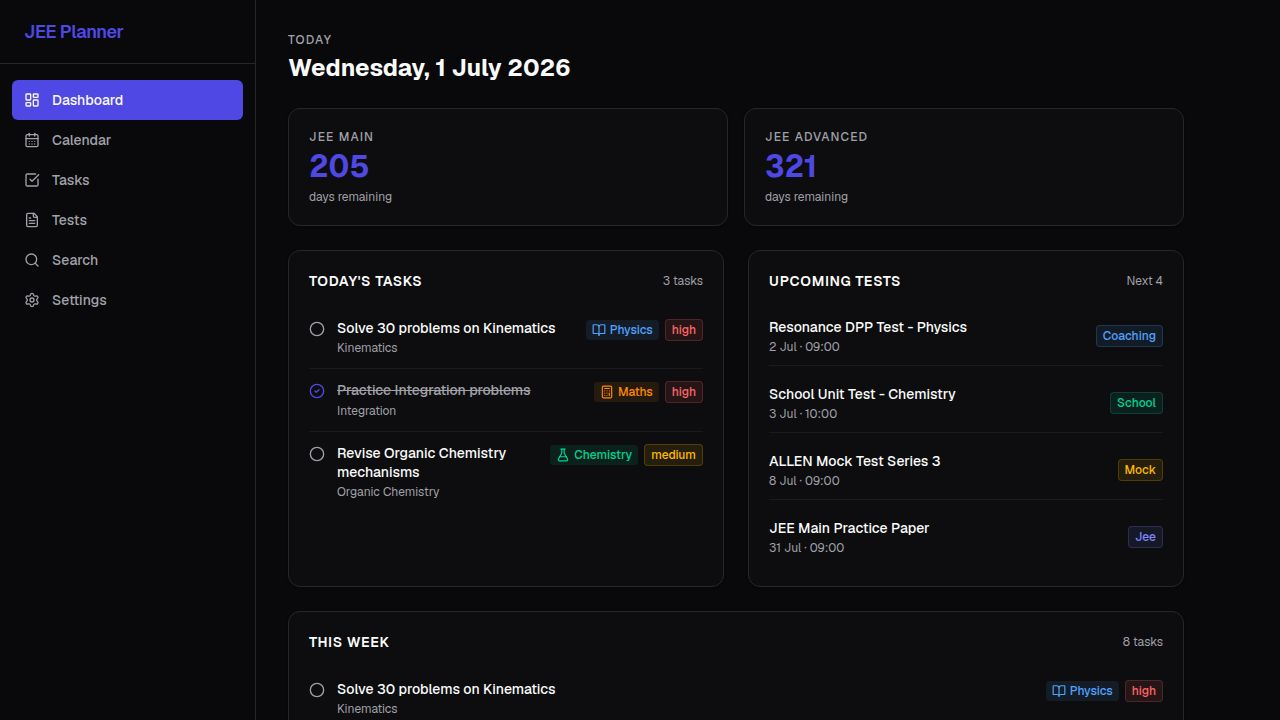
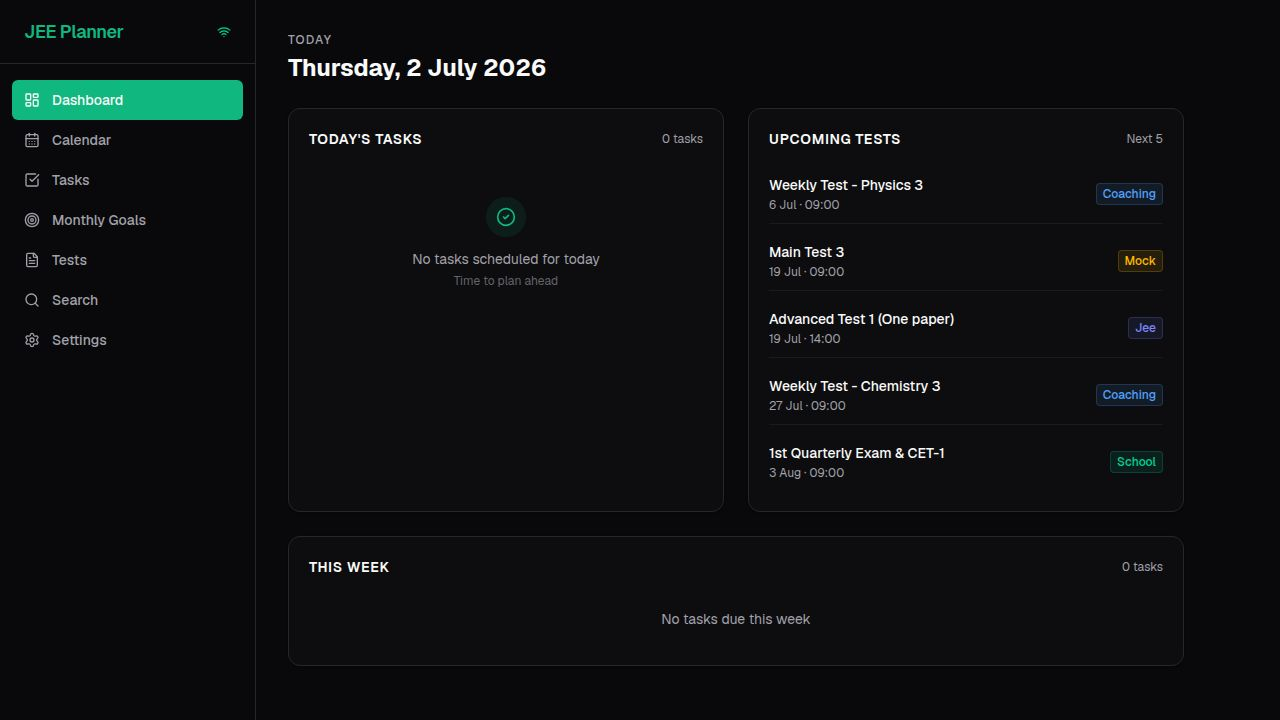
Add monthly goals feature with task tracking and progress visualization
Implement the "Monthly Goals" page, including navigation, goal creation/editing/deletion, and progress tracking. Update App.tsx and layout.tsx to integrate the new page into the application's routing and sidebar navigation.

Replit-Commit-Author: Agent
Replit-Commit-Session-Id: 8c80e2f8-d337-4d79-a131-af2cf229e117
Replit-Commit-Checkpoint-Type: full_checkpoint
Replit-Commit-Event-Id: 26960121-60f6-4b95-b059-2a54d8d9f779
Replit-Commit-Screenshot-Url: https://storage.googleapis.com/screenshot-production-us-central1/cb10af1d-fc4f-48c2-afae-b92a2a6c6787/8c80e2f8-d337-4d79-a131-af2cf229e117/giYGNqI
Replit-Helium-Checkpoint-Created: true

diff --git a/artifacts/jee-planner/src/pages/monthly-goals.tsx b/artifacts/jee-planner/src/pages/monthly-goals.tsx
@@ -1,0 +1,330 @@
+import { useState } from "react";
+import { format, addMonths, subMonths } from "date-fns";
+import {
+  useListMonthlyGoals,
+  getListMonthlyGoalsQueryKey,
+  useCreateMonthlyGoal,
+  useUpdateMonthlyGoal,
+  useDeleteMonthlyGoal,
+  useToggleMonthlyGoal,
+} from "@workspace/api-client-react";
+import { useQueryClient } from "@tanstack/react-query";
+import {
+  ChevronLeft,
+  ChevronRight,
+  Plus,
+  CheckCircle2,
+  Circle,
+  Trash2,
+  Pencil,
+  X,
+  Check,
+  BookOpen,
+  FlaskConical,
+  Calculator,
+  Beaker,
+  Target,
+} from "lucide-react";
+import { Card } from "@/components/ui/card";
+import { Skeleton } from "@/components/ui/skeleton";
+import { useToast } from "@/hooks/use-toast";
+
+const SUBJECTS = ["Physics", "Chemistry", "Maths", "Custom"];
+const PRIORITIES = ["low", "medium", "high"] as const;
+
+const subjectIcon: Record<string, React.ReactNode> = {
+  Physics: <BookOpen className="h-3.5 w-3.5" />,
+  Chemistry: <FlaskConical className="h-3.5 w-3.5" />,
+  Maths: <Calculator className="h-3.5 w-3.5" />,
+  Custom: <Beaker className="h-3.5 w-3.5" />,
+};
+
+const subjectColor: Record<string, string> = {
+  Physics: "text-blue-400 bg-blue-400/10",
+  Chemistry: "text-emerald-400 bg-emerald-400/10",
+  Maths: "text-orange-400 bg-orange-400/10",
+  Custom: "text-purple-400 bg-purple-400/10",
+};
+
+const priorityColor: Record<string, string> = {
+  high: "text-red-400 bg-red-400/10 border-red-400/20",
+  medium: "text-amber-400 bg-amber-400/10 border-amber-400/20",
+  low: "text-gray-400 bg-gray-400/10 border-gray-400/20",
+};
+
+type GoalFormState = {
+  title: string;
+  subject: string;
+  priority: "low" | "medium" | "high";
+  notes: string;
+};
+
+const emptyForm = (): GoalFormState => ({
+  title: "",
+  subject: "Custom",
+  priority: "medium",
+  notes: "",
+});
+
+export default function MonthlyGoals() {
+  const [current, setCurrent] = useState(new Date());
+  const [showForm, setShowForm] = useState(false);
+  const [editingId, setEditingId] = useState<number | null>(null);
+  const [form, setForm] = useState<GoalFormState>(emptyForm());
+  const { toast } = useToast();
+  const qc = useQueryClient();
+
+  const month = current.getMonth() + 1;
+  const year = current.getFullYear();
+  const queryKey = getListMonthlyGoalsQueryKey({ month, year });
+
+  const { data: goals = [], isLoading } = useListMonthlyGoals(
+    { month, year },
+    { query: { queryKey } }
+  );
+
+  const invalidate = () => qc.invalidateQueries({ queryKey });
+
+  const createGoal = useCreateMonthlyGoal({ mutation: { onSuccess: () => { invalidate(); setShowForm(false); setForm(emptyForm()); } } });
+  const updateGoal = useUpdateMonthlyGoal({ mutation: { onSuccess: () => { invalidate(); setEditingId(null); } } });
+  const deleteGoal = useDeleteMonthlyGoal({ mutation: { onSuccess: invalidate } });
+  const toggleGoal = useToggleMonthlyGoal({ mutation: { onSuccess: invalidate } });
+
+  function handleSubmitNew(e: React.FormEvent) {
+    e.preventDefault();
+    if (!form.title.trim()) return;
+    createGoal.mutate({
+      data: { title: form.title.trim(), subject: form.subject, priority: form.priority, notes: form.notes || undefined, month, year },
+    });
+  }
+
+  function handleSubmitEdit(e: React.FormEvent, id: number) {
+    e.preventDefault();
+    if (!form.title.trim()) return;
+    updateGoal.mutate({
+      id,
+      data: { title: form.title.trim(), subject: form.subject, priority: form.priority, notes: form.notes || undefined },
+    });
+  }
+
+  function startEdit(goal: (typeof goals)[0]) {
+    setEditingId(goal.id);
+    setForm({ title: goal.title, subject: goal.subject, priority: goal.priority as "low" | "medium" | "high", notes: goal.notes ?? "" });
+  }
+
+  function handleDelete(id: number) {
+    deleteGoal.mutate({ id }, {
+      onSuccess: () => toast({ title: "Goal deleted" }),
+    });
+  }
+
+  const completed = goals.filter((g) => g.completed).length;
+  const total = goals.length;
+  const pct = total > 0 ? Math.round((completed / total) * 100) : 0;
+
+  return (
+    <div className="space-y-6 max-w-2xl">
+      {/* Header */}
+      <div className="flex items-center justify-between">
+        <div>
+          <p className="text-xs text-muted-foreground uppercase tracking-widest font-medium mb-1">Monthly Goals</p>
+          <h1 className="text-2xl font-bold text-foreground">{format(current, "MMMM yyyy")}</h1>
+        </div>
+        <div className="flex items-center gap-2">
+          <button
+            onClick={() => setCurrent(subMonths(current, 1))}
+            className="p-2 rounded-md hover:bg-muted transition-colors text-muted-foreground hover:text-foreground"
+          >
+            <ChevronLeft className="h-4 w-4" />
+          </button>
+          <button
+            onClick={() => setCurrent(new Date())}
+            className="px-3 py-1.5 text-xs rounded-md bg-muted text-muted-foreground hover:text-foreground transition-colors font-medium"
+          >
+            This Month
+          </button>
+          <button
+            onClick={() => setCurrent(addMonths(current, 1))}
+            className="p-2 rounded-md hover:bg-muted transition-colors text-muted-foreground hover:text-foreground"
+          >
+            <ChevronRight className="h-4 w-4" />
+          </button>
+        </div>
+      </div>
+
+      {/* Progress bar */}
+      {total > 0 && (
+        <div className="flex items-center gap-3">
+          <div className="flex-1 h-2 bg-muted rounded-full overflow-hidden">
+            <div
+              className="h-full bg-primary rounded-full transition-all duration-500"
+              style={{ width: `${pct}%` }}
+            />
+          </div>
+          <span className="text-xs text-muted-foreground font-medium whitespace-nowrap">{completed}/{total} done</span>
+        </div>
+      )}
+
+      {/* Add Goal Form */}
+      {showForm ? (
+        <Card className="bg-card border-border p-5">
+          <form onSubmit={handleSubmitNew} className="space-y-4">
+            <div className="flex items-center justify-between mb-1">
+              <p className="text-sm font-semibold text-foreground">New Goal for {format(current, "MMMM")}</p>
+              <button type="button" onClick={() => { setShowForm(false); setForm(emptyForm()); }} className="text-muted-foreground hover:text-foreground">
+                <X className="h-4 w-4" />
+              </button>
+            </div>
+            <input
+              autoFocus
+              className="w-full bg-muted border border-border rounded-md px-3 py-2 text-sm text-foreground placeholder:text-muted-foreground focus:outline-none focus:ring-1 focus:ring-primary"
+              placeholder="Goal title…"
+              value={form.title}
+              onChange={(e) => setForm((f) => ({ ...f, title: e.target.value }))}
+            />
+            <div className="grid grid-cols-2 gap-3">
+              <div>
+                <label className="text-xs text-muted-foreground mb-1 block">Subject</label>
+                <select
+                  className="w-full bg-muted border border-border rounded-md px-3 py-2 text-sm text-foreground focus:outline-none focus:ring-1 focus:ring-primary"
+                  value={form.subject}
+                  onChange={(e) => setForm((f) => ({ ...f, subject: e.target.value }))}
+                >
+                  {SUBJECTS.map((s) => <option key={s}>{s}</option>)}
+                </select>
+              </div>
+              <div>
+                <label className="text-xs text-muted-foreground mb-1 block">Priority</label>
+                <select
+                  className="w-full bg-muted border border-border rounded-md px-3 py-2 text-sm text-foreground focus:outline-none focus:ring-1 focus:ring-primary"
+                  value={form.priority}
+                  onChange={(e) => setForm((f) => ({ ...f, priority: e.target.value as "low" | "medium" | "high" }))}
+                >
+                  {PRIORITIES.map((p) => <option key={p} value={p}>{p.charAt(0).toUpperCase() + p.slice(1)}</option>)}
+                </select>
+              </div>
+            </div>
+            <textarea
+              className="w-full bg-muted border border-border rounded-md px-3 py-2 text-sm text-foreground placeholder:text-muted-foreground focus:outline-none focus:ring-1 focus:ring-primary resize-none"
+              placeholder="Notes (optional)…"
+              rows={2}
+              value={form.notes}
+              onChange={(e) => setForm((f) => ({ ...f, notes: e.target.value }))}
+            />
+            <div className="flex gap-2 justify-end">
+              <button type="button" onClick={() => { setShowForm(false); setForm(emptyForm()); }} className="px-4 py-2 text-sm rounded-md border border-border text-muted-foreground hover:text-foreground transition-colors">
+                Cancel
+              </button>
+              <button type="submit" disabled={!form.title.trim()} className="px-4 py-2 text-sm rounded-md bg-primary text-primary-foreground font-medium hover:opacity-90 disabled:opacity-50 transition-opacity">
+                Add Goal
+              </button>
+            </div>
+          </form>
+        </Card>
+      ) : (
+        <button
+          onClick={() => setShowForm(true)}
+          className="flex items-center gap-2 px-4 py-2.5 text-sm font-medium rounded-md border border-dashed border-primary/40 text-primary hover:bg-primary/5 transition-colors w-full justify-center"
+        >
+          <Plus className="h-4 w-4" />
+          Add goal for {format(current, "MMMM")}
+        </button>
+      )}
+
+      {/* Goals List */}
+      <Card className="bg-card border-border overflow-hidden">
+        {isLoading ? (
+          <div className="p-5 space-y-3">
+            {[1, 2, 3].map((i) => <Skeleton key={i} className="h-12" />)}
+          </div>
+        ) : goals.length === 0 ? (
+          <div className="py-16 text-center">
+            <div className="w-12 h-12 rounded-full bg-primary/10 flex items-center justify-center mx-auto mb-3">
+              <Target className="h-6 w-6 text-primary" />
+            </div>
+            <p className="text-sm text-muted-foreground">No goals for {format(current, "MMMM yyyy")}</p>
+            <p className="text-xs text-muted-foreground/60 mt-1">Add goals you want to finish this month</p>
+          </div>
+        ) : (
+          <div className="divide-y divide-border/50">
+            {goals.map((goal) =>
+              editingId === goal.id ? (
+                <form key={goal.id} onSubmit={(e) => handleSubmitEdit(e, goal.id)} className="p-4 space-y-3 bg-muted/30">
+                  <input
+                    autoFocus
+                    className="w-full bg-muted border border-border rounded-md px-3 py-2 text-sm text-foreground focus:outline-none focus:ring-1 focus:ring-primary"
+                    value={form.title}
+                    onChange={(e) => setForm((f) => ({ ...f, title: e.target.value }))}
+                  />
+                  <div className="grid grid-cols-2 gap-3">
+                    <select
+                      className="w-full bg-muted border border-border rounded-md px-3 py-2 text-sm text-foreground focus:outline-none"
+                      value={form.subject}
+                      onChange={(e) => setForm((f) => ({ ...f, subject: e.target.value }))}
+                    >
+                      {SUBJECTS.map((s) => <option key={s}>{s}</option>)}
+                    </select>
+                    <select
+                      className="w-full bg-muted border border-border rounded-md px-3 py-2 text-sm text-foreground focus:outline-none"
+                      value={form.priority}
+                      onChange={(e) => setForm((f) => ({ ...f, priority: e.target.value as "low" | "medium" | "high" }))}
+                    >
+                      {PRIORITIES.map((p) => <option key={p} value={p}>{p.charAt(0).toUpperCase() + p.slice(1)}</option>)}
+                    </select>
+                  </div>
+                  <textarea
+                    className="w-full bg-muted border border-border rounded-md px-3 py-2 text-sm text-foreground placeholder:text-muted-foreground focus:outline-none resize-none"
+                    placeholder="Notes…"
+                    rows={2}
+                    value={form.notes}
+                    onChange={(e) => setForm((f) => ({ ...f, notes: e.target.value }))}
+                  />
+                  <div className="flex gap-2 justify-end">
+                    <button type="button" onClick={() => setEditingId(null)} className="p-1.5 rounded-md hover:bg-muted text-muted-foreground"><X className="h-4 w-4" /></button>
+                    <button type="submit" className="p-1.5 rounded-md hover:bg-primary/10 text-primary"><Check className="h-4 w-4" /></button>
+                  </div>
+                </form>
+              ) : (
+                <div key={goal.id} className="flex items-start gap-3 p-4 group hover:bg-muted/20 transition-colors">
+                  <button
+                    onClick={() => toggleGoal.mutate({ id: goal.id })}
+                    className="mt-0.5 flex-shrink-0 text-muted-foreground hover:text-primary transition-colors"
+                  >
+                    {goal.completed
+                      ? <CheckCircle2 className="h-5 w-5 text-primary" />
+                      : <Circle className="h-5 w-5" />}
+                  </button>
+                  <div className="flex-1 min-w-0">
+                    <p className={`text-sm font-medium leading-snug ${goal.completed ? "line-through text-muted-foreground" : "text-foreground"}`}>
+                      {goal.title}
+                    </p>
+                    {goal.notes && (
+                      <p className="text-xs text-muted-foreground mt-0.5 truncate">{goal.notes}</p>
+                    )}
+                  </div>
+                  <div className="flex items-center gap-1.5 flex-shrink-0">
+                    <span className={`inline-flex items-center gap-1 text-xs px-1.5 py-0.5 rounded-sm font-medium ${subjectColor[goal.subject] ?? subjectColor.Custom}`}>
+                      {subjectIcon[goal.subject] ?? subjectIcon.Custom}
+                      {goal.subject}
+                    </span>
+                    <span className={`text-xs px-1.5 py-0.5 rounded-sm border font-medium ${priorityColor[goal.priority]}`}>
+                      {goal.priority}
+                    </span>
+                    <div className="hidden group-hover:flex items-center gap-1 ml-1">
+                      <button onClick={() => startEdit(goal)} className="p-1 rounded hover:bg-muted text-muted-foreground hover:text-foreground transition-colors">
+                        <Pencil className="h-3.5 w-3.5" />
+                      </button>
+                      <button onClick={() => handleDelete(goal.id)} className="p-1 rounded hover:bg-red-500/10 text-muted-foreground hover:text-red-400 transition-colors">
+                        <Trash2 className="h-3.5 w-3.5" />
+                      </button>
+                    </div>
+                  </div>
+                </div>
+              )
+            )}
+          </div>
+        )}
+      </Card>
+    </div>
+  );
+}

diff --git a/artifacts/jee-planner/src/components/layout.tsx b/artifacts/jee-planner/src/components/layout.tsx
@@ -9,7 +9,8 @@ import {
   Settings,
   Menu,
   Wifi,
-  WifiOff
+  WifiOff,
+  Target
 } from "lucide-react";
 import { Button } from "./ui/button";
 import { getIsOnline } from "@/lib/sync-fetch";
@@ -37,6 +38,7 @@ export function Layout({ children }: LayoutProps) {
     { name: "Dashboard", href: "/", icon: LayoutDashboard },
     { name: "Calendar", href: "/calendar", icon: CalendarDays },
     { name: "Tasks", href: "/tasks", icon: CheckSquare },
+    { name: "Monthly Goals", href: "/monthly-goals", icon: Target },
     { name: "Tests", href: "/tests", icon: FileText },
     { name: "Search", href: "/search", icon: Search },
     { name: "Settings", href: "/settings", icon: Settings },

diff --git a/artifacts/jee-planner/src/App.tsx b/artifacts/jee-planner/src/App.tsx
@@ -11,6 +11,7 @@ import Tasks from "@/pages/tasks";
 import Tests from "@/pages/tests";
 import Search from "@/pages/search";
 import Settings from "@/pages/settings";
+import MonthlyGoals from "@/pages/monthly-goals";
 import { useGetSettings, getGetSettingsQueryKey } from "@workspace/api-client-react";
 import { applyAccentColor } from "@/lib/accent";
 
@@ -25,6 +26,7 @@ function Router() {
         <Route path="/tasks" component={Tasks} />
         <Route path="/tests" component={Tests} />
         <Route path="/search" component={Search} />
+        <Route path="/monthly-goals" component={MonthlyGoals} />
         <Route path="/settings" component={Settings} />
         <Route component={NotFound} />
       </Switch>